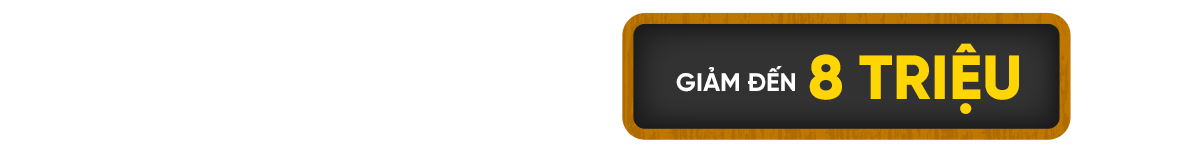
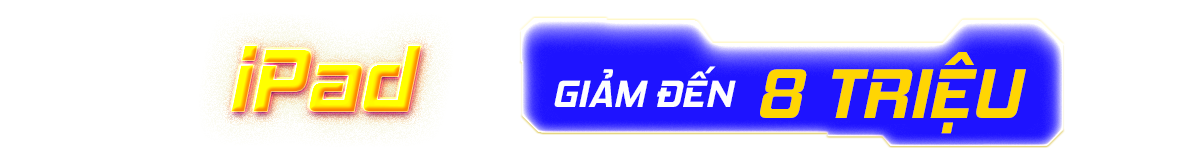
update

diff --git a/src/Component/flash-sale-tuan/HeaderHalloween/HeaderHalloween.tsx b/src/Component/flash-sale-tuan/HeaderHalloween/HeaderHalloween.tsx
@@ -14,7 +14,7 @@ import { Spin } from "antd";
 import Link from "next/link";
 
 function HeaderHalloween() {
-  const [endDate, setEndDate] = useState(new Date("2024-11-30T21:30:00"));
+  const [endDate, setEndDate] = useState(new Date("2024-11-12T21:30:00"));
   const [timeArray, setTimeArray] = useState([
     { date: endDate.toDateString(), days: 0, hours: 0, minutes: 0, seconds: 0 },
   ]);
@@ -140,7 +140,7 @@ function HeaderHalloween() {
   useEffect(() => {
     fetchBannerHeader();
   }, []);
-  console.log("data", data);
+
   return (
     <div className="HeaderHalloweens1">
       <div>
@@ -231,9 +231,17 @@ function HeaderHalloween() {
                   </div>
                 ))}
               </div>
-              <Link href="#item-rules">
-                <button className="Halloween-button">Xem thể lệ</button>
-              </Link>
+
+              <button
+                className="Halloween-button"
+                onClick={() =>
+                  document
+                    .getElementById("item-rules")
+                    ?.scrollIntoView({ behavior: "smooth" })
+                }
+              >
+                Xem thể lệ
+              </button>
             </div>
           </div>
         )}
@@ -254,21 +262,33 @@ function HeaderHalloween() {
                 style={{ cursor: "pointer" }}
               >
                 {item.link ? (
-                  <a href={item.link} target="_blank" rel="noopener noreferrer">
+                  <Link
+                    href={item.link}
+                    target="_blank"
+                    rel="noopener noreferrer"
+                  >
                     <Image
                       src={item.media || ""}
                       alt={`privilege-${index + 1}`} // Adjust the alt text accordingly
                       width={1200}
                       height={1000}
                     />
-                  </a>
+                  </Link>
                 ) : (
-                  <Image
-                    src={item.media || ""}
-                    alt={`privilege-${index + 1}`} // Adjust the alt text accordingly
-                    width={1200}
-                    height={1000}
-                  />
+                  <div
+                    onClick={() =>
+                      document
+                        .getElementById("item-rules")
+                        ?.scrollIntoView({ behavior: "smooth" })
+                    }
+                  >
+                    <Image
+                      src={item.media || ""}
+                      alt={`privilege-${index + 1}`} // Adjust the alt text accordingly
+                      width={1200}
+                      height={1000}
+                    />
+                  </div>
                 )}
               </div>
             ))}

diff --git a/src/Component/flash-sale-tuan/toy/index.tsx b/src/Component/flash-sale-tuan/toy/index.tsx
@@ -5,7 +5,7 @@ import { useQuery } from "@tanstack/react-query";
 import Link from "next/link";
 import { Spin } from "antd";
 import DecorProduct from "../../../../public/flase-sale/IC-DECOR.png";
-import DecorWomen from "../../../../public/flase-sale/dochoi.png";
+import DecorWomen from "../../../../public/flase-sale/PC_phukienapple.png";
 import FrameProduct from "../../../../public/flase-sale/f1.png";
 import "./apple.scss";
 import { useProductSaleData } from "../../../app/hooks/useProductSaleData";
